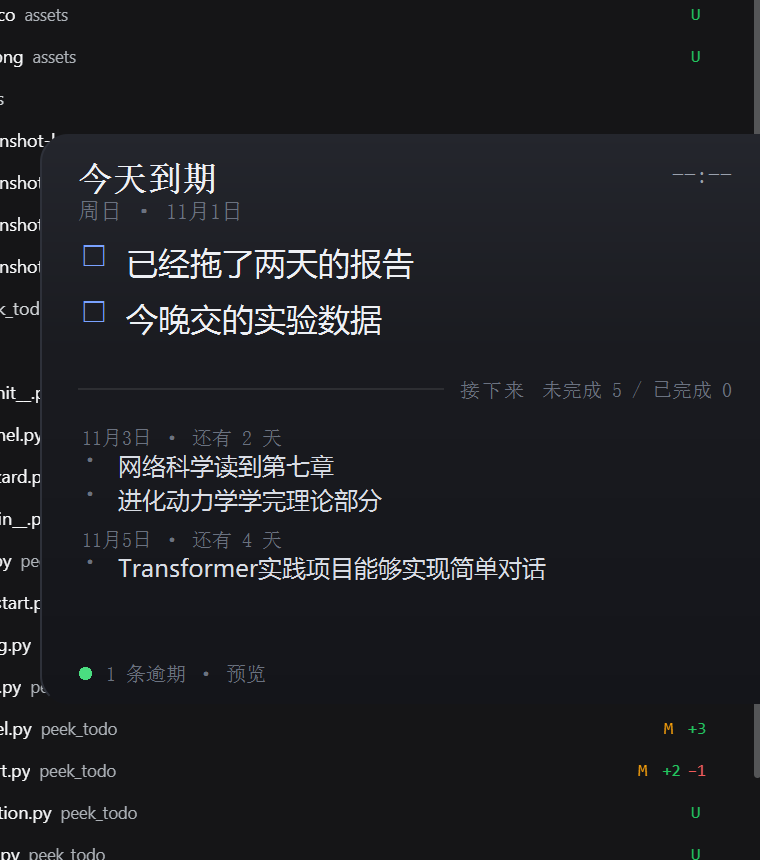
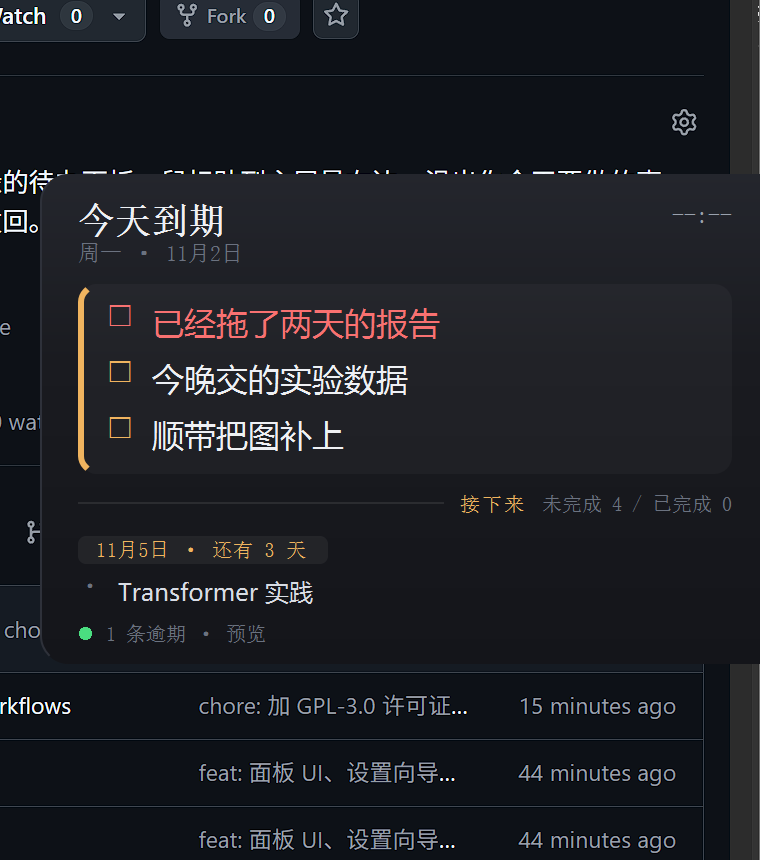
style: 面板增加色块与模式强调色
- 当前时段改为独立色块（浅底 + 左侧色条 + 圆角）
- 三种模式各一套强调色：周计划蓝 / 截止日琥珀 / 备忘单绿
- 分组标题改成色块标签，组间加细分隔线
- 逾期事项标红
- 子项缩进与字号阶梯加大落差

diff --git a/peek_todo/ui/panel.py b/peek_todo/ui/panel.py
@@ -24,6 +24,23 @@ from ..selection import View
 ACCENT = "#7aa2ff"
 DIM = "#9aa1ad"
 FAINT = "#6b7280"
+OVERDUE = "#f87171"
+
+# 当前时段的外框：左侧一道色条 + 深一档的底色，把"现在要做"和其它区域分开
+CURRENT_BLOCK_QSS = """
+#currentBlock {
+    background: rgba(255, 255, 255, 0.035);
+    border-left: 3px solid %s;
+    border-radius: 9px;
+}
+"""
+
+GROUP_HEAD_QSS = """
+QWidget#groupHead {
+    background: transparent;
+    border-top: 1px solid rgba(255, 255, 255, 0.07);
+}
+"""
 
 CARD_QSS = """
 #card {
@@ -55,7 +72,16 @@ class TaskRow(QWidget):
     toggled = pyqtSignal(str)
     opened = pyqtSignal(str)
 
-    def __init__(self, task: Task, *, small: bool = False, muted: bool = False, parent=None):
+    def __init__(
+        self,
+        task: Task,
+        *,
+        small: bool = False,
+        muted: bool = False,
+        accent: str = ACCENT,
+        overdue: bool = False,
+        parent=None,
+    ):
         super().__init__(parent)
         self.task = task
         self._hover = False
@@ -81,11 +107,20 @@ class TaskRow(QWidget):
         else:
             size = 16 if task.depth == 0 else 11 if task.depth == 1 else 9
 
+        if task.done:
+            box_color = "#565d69"
+        elif overdue:
+            box_color = OVERDUE
+        elif small or muted or task.depth > 0:
+            box_color = FAINT
+        else:
+            box_color = accent
+
         box = QLabel(mark)
         box.setFixedWidth(12 if small else 16)
         box.setAlignment(Qt.AlignTop | Qt.AlignHCenter)
         box.setStyleSheet(
-            f"color: {'#565d69' if task.done else (FAINT if (small or muted or task.depth > 0) else ACCENT)};"
+            f"color: {box_color};"
             f"font-size: {max(9, size - 2)}px; background: transparent;"
         )
 
@@ -95,6 +130,8 @@ class TaskRow(QWidget):
         text.setFont(_font(size, strike=task.done))
         if task.done:
             color = "#565d69"
+        elif overdue:
+            color = OVERDUE
         elif muted:
             color = DIM
         elif task.depth == 0:
@@ -205,10 +242,13 @@ class Panel(QWidget):
         head.addWidget(self.clock)
         root.addLayout(head)
 
-        self.current_box = QVBoxLayout()
-        self.current_box.setContentsMargins(0, 0, 0, 10)
+        self.current_block = QFrame()
+        self.current_block.setObjectName("currentBlock")
+        self.current_block.setStyleSheet(CURRENT_BLOCK_QSS % ACCENT)
+        self.current_box = QVBoxLayout(self.current_block)
+        self.current_box.setContentsMargins(10, 9, 10, 9)
         self.current_box.setSpacing(7)
-        root.addLayout(self.current_box)
+        root.addWidget(self.current_block)
 
         self.unknown_label = QLabel("未识别时间")
         self.unknown_label.setStyleSheet(
@@ -291,8 +331,8 @@ class Panel(QWidget):
             if widget is not None:
                 widget.deleteLater()
 
-    def _row(self, task: Task, *, small=False, muted=False):
-        row = TaskRow(task, small=small, muted=muted)
+    def _row(self, task: Task, *, small=False, muted=False, accent=ACCENT, overdue=False):
+        row = TaskRow(task, small=small, muted=muted, accent=accent, overdue=overdue)
         row.toggled.connect(self.task_toggled.emit)
         row.opened.connect(lambda _tid: self.open_source_requested.emit())
         return row
@@ -303,35 +343,76 @@ class Panel(QWidget):
         label.setStyleSheet(f"color:{FAINT}; font-size:12px; background:transparent;")
         return label
 
+    def _group_header(self, label: str, accent: str, *, first: bool):
+        """分组标题：一个带底色的小色块 + 上方的细分隔线。"""
+        host = QWidget()
+        host.setObjectName("groupHead")
+        host.setAttribute(Qt.WA_StyledBackground, True)
+        host.setStyleSheet(GROUP_HEAD_QSS if not first else "QWidget#groupHead{background: transparent;}")
+        row = QHBoxLayout(host)
+        row.setContentsMargins(0, 9 if not first else 3, 0, 5)
+        row.setSpacing(6)
+
+        chip = QLabel(label)
+        chip.setStyleSheet(
+            f"color:{accent}; font-size:10px; letter-spacing:0.4px;"
+            f"background: rgba(255,255,255,0.055); border-radius:4px;"
+            f"padding:2px 7px;"
+        )
+        row.addWidget(chip)
+        row.addStretch(1)
+        return host
+
     def render(self, view: View, meta: dict):
+        accent = view.accent
         self.headline.setText(view.headline)
+        self.headline.setStyleSheet(
+            f"color:#eef0f4; font-size:18px; font-weight:600; background:transparent;"
+        )
         self.meta.setText(f"{view.weekday} · {view.now.month}月{view.now.day}日")
+        self.current_block.setStyleSheet(CURRENT_BLOCK_QSS % accent)
+        self.section_label.setStyleSheet(
+            f"color:{accent}; font-size:10px; letter-spacing:1px; background:transparent;"
+        )
 
         self._clear(self.current_box)
         if view.current:
             for task in view.current:
-                self.current_box.addWidget(self._row(task))
-        elif view.mode == "A":
+                self.current_box.addWidget(
+                    self._row(
+                        task,
+                        accent=accent,
+                        overdue=task.id in view.overdue_ids,
+                    )
+                )
+        elif view.mode == "memo":
+            self.current_box.addWidget(self._hint("还没有任何事项"))
+        else:
             self.current_box.addWidget(self._hint("这个时间段没有安排"))
 
         self._clear(self.unknown_box)
         self.unknown_label.setText(view.unknown_label)
         self.unknown_label.setVisible(bool(view.unknown))
         for task in view.unknown:
-            self.unknown_box.addWidget(self._row(task, small=True, muted=True))
+            self.unknown_box.addWidget(self._row(task, small=True, muted=True, accent=accent))
 
         self._clear(self.all_box)
         if view.today_groups:
+            shown = 0
             for group in view.today_groups:
                 if not group.tasks:
                     continue
-                label = QLabel(group.label)
-                label.setStyleSheet(
-                    f"color:{FAINT}; font-size:10px; margin-top:6px; background:transparent;"
-                )
-                self.all_box.addWidget(label)
+                self.all_box.addWidget(self._group_header(group.label, accent, first=shown == 0))
+                shown += 1
                 for task in group.tasks:
-                    self.all_box.addWidget(self._row(task, small=True))
+                    self.all_box.addWidget(
+                        self._row(
+                            task,
+                            small=True,
+                            accent=accent,
+                            overdue=task.id in view.overdue_ids,
+                        )
+                    )
         elif view.current:
             self.all_box.addWidget(self._hint("上面已经列全了"))
         else:

diff --git a/peek_todo/selection.py b/peek_todo/selection.py
@@ -34,10 +34,27 @@ class View:
     unknown_label: str = "未识别时间"
     section_label: str = "今天全部"
     show_bottom: bool = True  # 备忘单模式没有"下方列表"
+    accent: str = "#7aa2ff"  # 强调色，由模式决定
+    overdue_ids: set[str] = field(default_factory=set)  # 逾期事项的 id，用于标红
 
     @property
     def total(self) -> int:
         return self.open_count + self.done_count
+
+
+# 三种模式各自的强调色，UI 和报告都从这里取
+MODE_ACCENTS = {
+    "week": "#7aa2ff",  # 蓝
+    "due": "#f0b45f",  # 琥珀
+    "memo": "#4ade80",  # 绿
+}
+
+# 用户在设置里可以覆盖成固定色（"auto" = 跟随模式）
+ACCENT_PRESETS = {
+    "blue": "#7aa2ff",
+    "violet": "#a78bfa",
+    "teal": "#2dd4bf",
+}
 
 
 def _minutes(hhmm: str) -> int:
@@ -84,6 +101,7 @@ def build_view(
         now=now,
         mode=result.mode_used,
         issues=[i.message + (f"：{i.label}" if i.label else "") for i in result.issues],
+        accent=MODE_ACCENTS.get(result.mode_used, MODE_ACCENTS["week"]),
     )
 
     all_tasks = [t for g in result.groups for t in g.tasks] + list(result.orphans)
@@ -156,6 +174,9 @@ def _build_due_view(view: View, result: MappingResult, now: datetime) -> None:
 
     if overdue:
         view.note = f"{len(overdue)} 条逾期"
+
+    # 逾期事项单独标出来，面板上要变红
+    view.overdue_ids = {t.id for t in overdue if not t.done}
 
     counted = [t for g in result.groups for t in g.tasks] + list(result.orphans)
     view.open_count, view.done_count = _count(counted)
